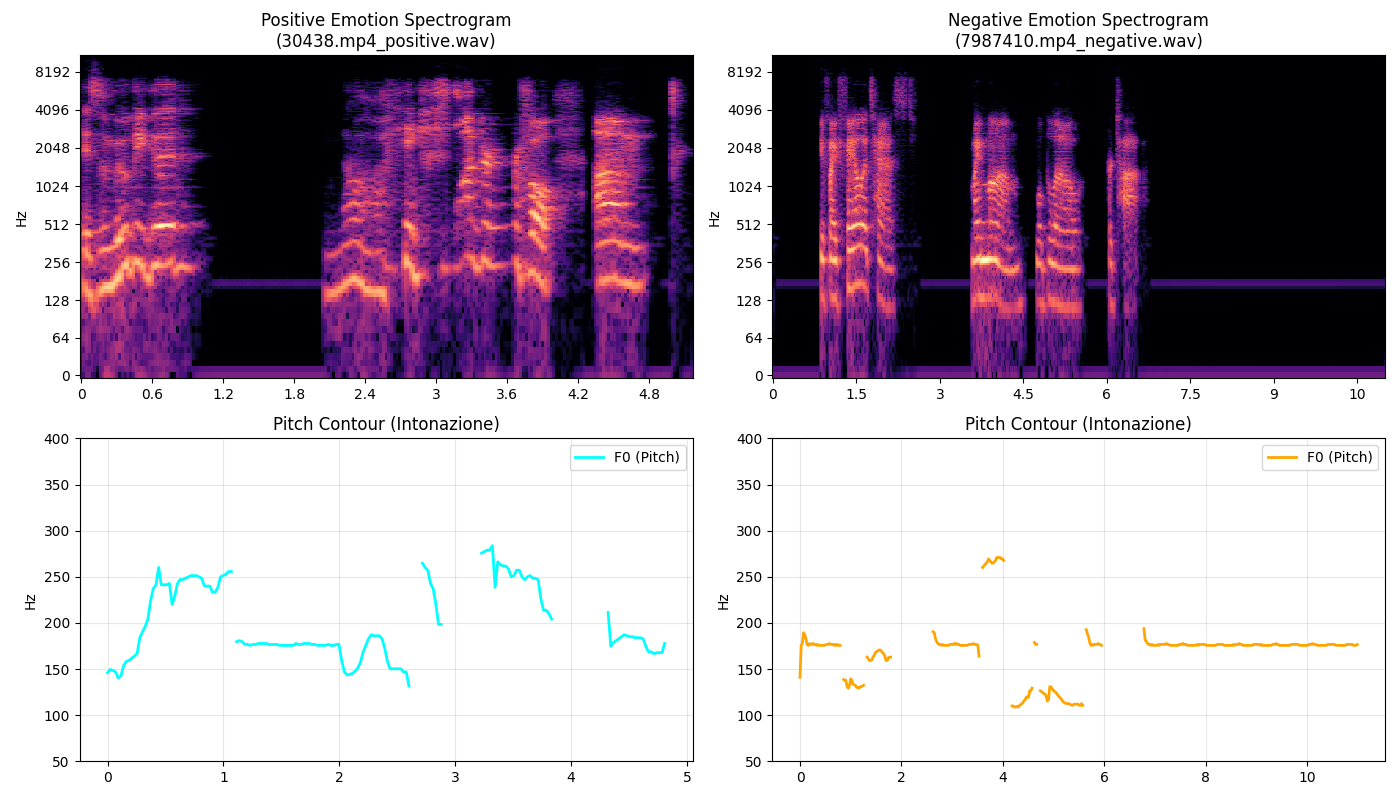
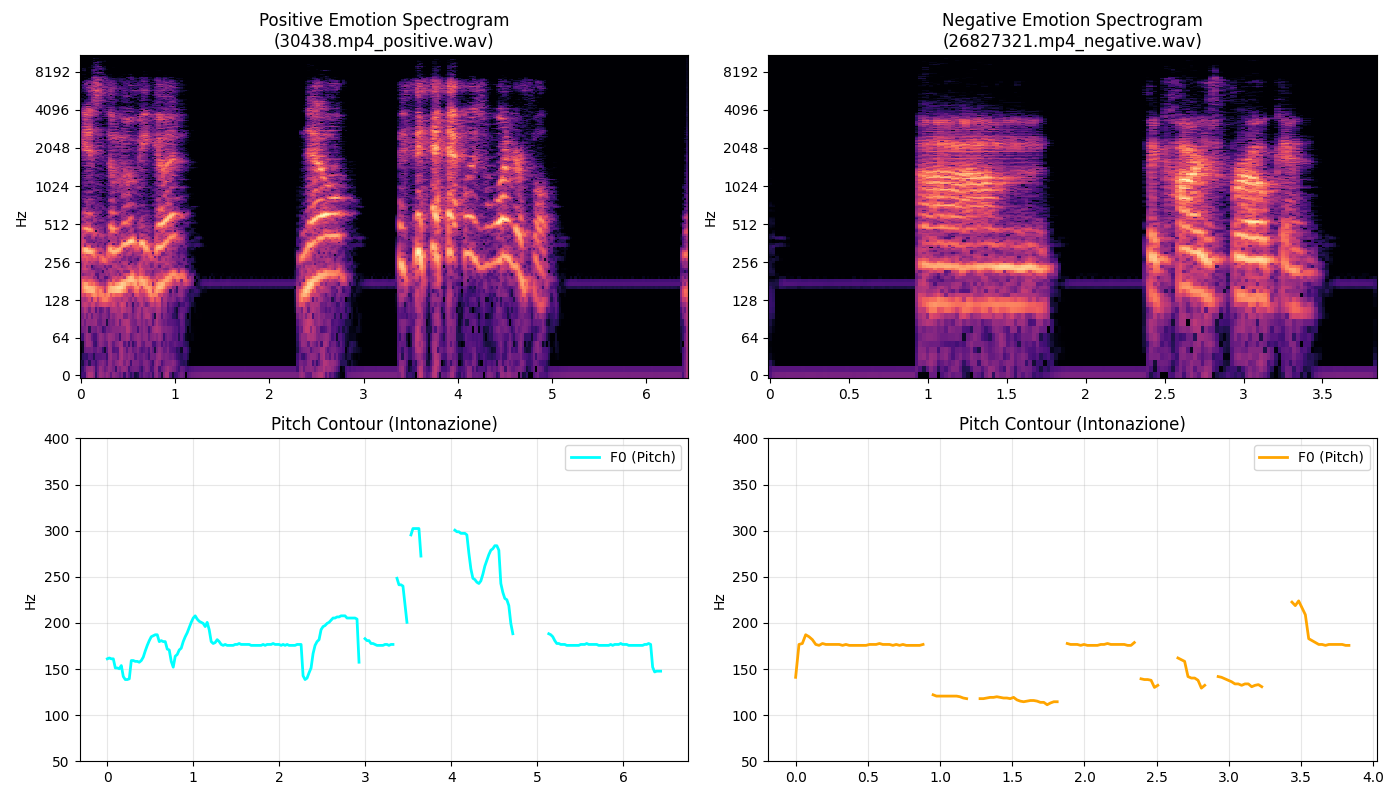
Refactor emotion mapping and tag optimization for improved clarity and performance
- Updated emotional tags in `emotion_mapper.py` to reflect confidence-based thresholds and improved fallback options.
- Enhanced `optimize_emotional_text` function in `emotion_tag_optimizer.py` to handle old tags and provide better uncertainty representation.
- Cleaned up path definitions in `tts_generator.py` for clarity and updated file references for predictions and audio output.
- Adjusted audio directory paths in `analyze_prosody.py` and `analyze_tts_results.py` for consistency and accuracy.

diff --git a/src/tts/bark/tts_generator.py b/src/tts/bark/tts_generator.py
@@ -68,7 +68,6 @@
     - Usa modelli standard (migliore qualità, più VRAM richiesta).
     - Offload su CPU attivo per gestire la memoria.
 """
-
 import os
 import torch
 import gc
@@ -83,7 +82,7 @@ import numpy as np
 import warnings
 from tqdm import tqdm
 
-# Patch PyTorch (se serve ancora, ma su A100 con env recenti forse no)
+# Patch PyTorch
 try:
     from . import pytorch_patch
 except ImportError:
@@ -125,15 +124,26 @@ if parent_dir not in sys.path:
     sys.path.insert(0, parent_dir)
 from text_templates import get_tts_text
 
-# --- PATHS (Ho lasciato i tuoi percorsi hardcoded commentati per sicurezza) ---
-BASE_DIR = os.path.abspath(
-    os.path.join(os.path.dirname(__file__), os.pardir, os.pardir, os.pardir)
+# --- PATHS ---
+
+# PUNTA AL NUOVO FILE GENERATO DA MERGE_CAPTIONS
+PREDICTIONS_FILE = os.path.join(
+    # BASE_DIR,
+    # "src",
+    # "models",
+    # "three_classes",
+    # "text_plus_video_metalearner_to_sentiment",
+    # "results",
+    "final_predictions_with_captions.csv",  # <--- FILE CORRETTO
 )
-PREDICTIONS_FILE = (
-    "final_metalearner_predictions_for_tts.csv"  # Modifica con path assoluto se serve
+
+OUTPUT_AUDIO_DIR = os.path.join(
+    # BASE_DIR,
+    # "src",
+    # "tts",
+    # "bark",
+    "output_audio",
 )
-OUTPUT_AUDIO_DIR = "output_audio"
-GOLDEN_TEST_FILE = "golden_test_set.csv"
 
 MODELS_PRELOADED = False
 
@@ -141,7 +151,6 @@ MODELS_PRELOADED = False
 def setup_optimizations():
     """Configura PyTorch per massime prestazioni su A100."""
     if torch.cuda.is_available():
-        # Usa TF32 per matrici (velocizza molto su Ampere A100)
         torch.backends.cuda.matmul.allow_tf32 = True
         torch.backends.cudnn.allow_tf32 = True
         print("🚀 A100 Optimization: TF32 Enabled")
@@ -153,7 +162,6 @@ def preload_bark_models():
         return
     if not MODELS_PRELOADED:
         print("📥 Caricamento modelli Bark HQ in VRAM...")
-        # Su A100 carichiamo tutto su GPU subito e non lo muoviamo più
         preload_models(
             text_use_gpu=True,
             text_use_small=False,
@@ -170,28 +178,19 @@ def preload_bark_models():
 
 def load_predictions_data():
     if not os.path.exists(PREDICTIONS_FILE):
-        print(f"⚠ File locale non trovato, provo path assoluto...")
-        # Fallback al path complesso se il locale non c'è
-        abs_path = os.path.join(
-            # BASE_DIR,
-            # "src",
-            # "models",
-            # "three_classes",
-            # "text_plus_video_metalearner_to_sentiment",
-            # "results",
-            "final_metalearner_predictions_for_tts.csv",
+        raise FileNotFoundError(
+            f"❌ File non trovato: {PREDICTIONS_FILE}\nEsegui prima src/utils/merge_captions.py!"
         )
-        if os.path.exists(abs_path):
-            return pd.read_csv(abs_path)
-        else:
-            raise FileNotFoundError(f"❌ File non trovato: {PREDICTIONS_FILE}")
 
     df = pd.read_csv(PREDICTIONS_FILE)
+    print(f"📄 Dataset caricato: {len(df)} righe")
 
-    # Logica recupero caption (semplificata per velocità)
-    if "caption" not in df.columns or df["caption"].isnull().all():
-        print("⚠ Recupero caption...")
-        # ... logica recupero ... (omessa per brevità, usa quella del tuo script precedente se serve)
+    # Check rapido
+    missing_caps = df["caption"].isna().sum()
+    if missing_caps > 0:
+        print(
+            f"⚠ Attenzione: {missing_caps} caption sono ancora vuote (useranno template fallback)."
+        )
 
     return df
 
@@ -208,11 +207,13 @@ def generate_emotional_audio(emotion, confidence, video_name, output_dir, captio
     # Testo
     if isinstance(caption, str) and len(caption) > 3:
         text = caption
+        # A100 gestisce testi lunghi, ma Bark può allucinare se > 250 token
         if len(text) > 250:
-            text = text[:250] + "..."  # A100 regge di più ma occhio ai token
+            text = text[:250] + "..."
     else:
         text = get_tts_text(emotion, confidence, video_name)
 
+    # Ottimizzazione
     text = optimize_emotional_text(
         text, emotion, use_tags=True, custom_tag=emotional_tag, confidence=confidence
     )
@@ -220,8 +221,6 @@ def generate_emotional_audio(emotion, confidence, video_name, output_dir, captio
     print(f"🎙 {video_name} | {emotion} ({confidence:.2f})")
 
     try:
-        # Generazione (Senza silent=True vediamo la barra di Bark se vogliamo)
-        # Su A100 questo step dovrebbe volare
         audio_array = generate_audio(
             text,
             history_prompt=history_prompt,
@@ -236,12 +235,13 @@ def generate_emotional_audio(emotion, confidence, video_name, output_dir, captio
 
         write_wav(output_path, SAMPLE_RATE, audio_array)
 
-        # NON puliamo la cache ogni volta su A100, rallenta solo!
-        # Facciamolo solo ogni tanto se proprio serve
+        # Su A100 non puliamo la cache ad ogni file per velocità
         return output_path
 
     except Exception as e:
         print(f"❌ Errore: {e}")
+        gc.collect()
+        torch.cuda.empty_cache()
         return None
 
 
@@ -262,8 +262,6 @@ def generate_from_csv(limit: int = None):
     preload_bark_models()
 
     successful = 0
-
-    # TQDM con statistiche
     pbar = tqdm(df.iterrows(), total=len(df), desc="A100 Generating")
 
     for i, (_, row) in enumerate(pbar):
@@ -272,22 +270,25 @@ def generate_from_csv(limit: int = None):
         if emotion not in ["Positive", "Negative", "Neutral"]:
             emotion = "Neutral"
 
+        # Gestione caption che potrebbero essere NaN
+        caption = row["caption"] if pd.notna(row["caption"]) else None
+
         path = generate_emotional_audio(
             emotion,
             float(row["confidence"]),
             video_name,
             OUTPUT_AUDIO_DIR,
-            row.get("caption"),
+            caption,
         )
 
         if path:
             successful += 1
 
-        # Pulizia leggera ogni 50 file invece che ogni 1
+        # Pulizia leggera ogni 50 file
         if i % 50 == 0:
             gc.collect()
 
-    print(f"✅ Fatto. {successful}/{len(df)} generati.")
+    print(f"✅ Fatto. {successful}/{len(df)} generati in: {OUTPUT_AUDIO_DIR}")
 
 
 if __name__ == "__main__":

diff --git a/src/tts/bark/emotion_mapper.py b/src/tts/bark/emotion_mapper.py
@@ -33,36 +33,28 @@ EMOTION_BARK_MAPPING = {
     },
 }
 
-# Configurazione Tag Emotivi (SOGLIE AGGIORNATE)
+# Configurazione Tag Emotivi basata su Confidenza (CORRETTA)
 EMOTIONAL_TAGS = {
     "Positive": {
         "primary": "[laughs]",
         "alternatives": ["[chuckles]", "[giggles]", "[laughter]", "♪"],
-        # SOGLIA ALZATA A 0.92: Il grafico mostra molti dati > 0.90.
-        # Riserviamo [laughter] (risata forte) solo ai casi estremi.
-        "high_confidence": "[laughter]",
-        # Fascia 0.75 - 0.92: Confidenza solida ma non estrema.
-        "medium_confidence": "[laughs]",
-        # Sotto 0.75: Il modello ha dubbi. Usiamo [chuckles] (sorriso) o niente.
-        "low_confidence": "[chuckles]",
+        "high_confidence": "[laughter]",  # >92%
+        "medium_confidence": "[laughs]",  # 75-92%
+        "low_confidence": "[clears throat]",  # <75% (Sicuro)
     },
     "Negative": {
         "primary": "[sighs]",
-        "alternatives": ["[sad]", "[gasps]", "... -"],
-        # SOGLIA RICALIBRATA SUI TUOI DATI (Max osservato ~0.71)
-        # Abbassiamo drasticamente per "forzare" l'espressività sui migliori negativi che hai
-        "high_confidence": "[sighs]",  # > 0.65 (Invece di 0.92)
-        # Fascia media
-        "medium_confidence": "[gasps]",  # 0.55 - 0.65
-        # Sotto 0.55 è davvero incerto
-        "low_confidence": "...",
+        "alternatives": ["[sad]", "[gasps]", "...", "—"],
+        "high_confidence": "[sighs]",  # >65% (Ricalibrato sui tuoi dati)
+        "medium_confidence": "[gasps]",  # 55-65%
+        "low_confidence": "...",  # <55% (Pausa lunga è meglio di [hesitation])
     },
     "Neutral": {
         "primary": "",
-        "alternatives": ["[clears throat]", "[breath]"],
+        "alternatives": ["[clears throat]", "uhm...", "—"],
         "high_confidence": "",
-        "medium_confidence": "",
-        "low_confidence": "[hesitation]",
+        "medium_confidence": "[clears throat]",
+        "low_confidence": "uhm...",  # <75% (Uhm... è il vero suono di esitazione)
     },
 }
 

diff --git a/src/tts/bark/emotion_tag_optimizer.py b/src/tts/bark/emotion_tag_optimizer.py
@@ -33,12 +33,18 @@ def optimize_emotional_text(
 
     conf = confidence if confidence <= 1.0 else confidence / 100.0
 
+    # Tag base (fallback)
     default_tags = {
         "Positive": "[laughs]",
         "Negative": "[sighs]",
         "Neutral": "[clears throat]",
     }
     tag = custom_tag or default_tags.get(emotion, "")
+
+    # Se il tag passato era il vecchio [hesitation], lo convertiamo al volo
+    if tag == "[hesitation]":
+        tag = "uhm..."
+
     if not tag:
         return text
 
@@ -46,22 +52,24 @@ def optimize_emotional_text(
     text_len = len(text)
 
     # --- STRATEGIA BASSA CONFIDENZA (< 0.75) ---
-    # Il grafico mostrava un cluster tra 0.60 e 0.70.
-    # Trattiamo questa fascia come "incerta" -> Esitazione invece di emozione.
+    # Usiamo "uhm..." o "..." per simulare incertezza acustica reale
     if conf < 0.75:
+        hesitation_sound = "uhm..."  # Molto efficace in Bark
         if breaks:
-            return insert_tag(text, "... [hesitation]", breaks[0])
+            # Inserisci un'esitazione alla prima pausa
+            return insert_tag(text, f"... {hesitation_sound}", breaks[0])
         else:
-            return f"[hesitation] {text}"
+            # Inizio frase
+            return f"{hesitation_sound} {text}"
 
     # --- STRATEGIA ALTA CONFIDENZA ---
+    # ... (Il resto rimane uguale) ...
 
     if text_len < 40:
         return f"{tag} {text}"
 
     if emotion == "Positive":
         result = f"{tag} {text}"
-        # Solo se > 0.95 (certezza quasi assoluta) raddoppiamo la risata
         if conf > 0.95 and breaks:
             mid_break = breaks[len(breaks) // 2]
             result = insert_tag(result, "[laughter]", mid_break + len(tag) + 1)

diff --git a/src/tts/bark/utils/analyze_prosody.py b/src/tts/bark/utils/analyze_prosody.py
@@ -13,11 +13,8 @@ import librosa.display
 import random
 
 # --- CONFIGURAZIONE ---
-BASE_DIR = os.path.abspath(
-    os.path.join(os.path.dirname(__file__), os.pardir, os.pardir, os.pardir)
-)
-AUDIO_DIR = os.path.join(BASE_DIR, "src", "tts", "bark", "output_audio")
-OUTPUT_IMG_DIR = os.path.join(BASE_DIR, "reports", "figures", "prosody_analysis")
+AUDIO_DIR = os.path.join("src", "tts", "bark", "best_audio")
+OUTPUT_IMG_DIR = os.path.join("reports", "figures", "prosody_analysis")
 
 
 def extract_pitch(audio_path):
@@ -122,8 +119,10 @@ def main():
     # L'ideale sarebbe confrontare lo stesso speaker, ma qui prendiamo a campione
     # p_file = pos_files[0]
     # n_file = neg_files[0]
+    # video_name_p = "30438"
+    # video_name_n = "254424"
     video_name_p = "30438"
-    video_name_n = "7987410"
+    video_name_n = "26827321"
     p_file = f"{AUDIO_DIR}/{video_name_p}.mp4_positive.wav"
     n_file = f"{AUDIO_DIR}/{video_name_n}.mp4_negative.wav"
 

diff --git a/src/tts/bark/utils/analyze_tts_results.py b/src/tts/bark/utils/analyze_tts_results.py
@@ -15,15 +15,9 @@ import seaborn as sns
 BASE_DIR = os.path.abspath(
     os.path.join(os.path.dirname(__file__), os.pardir, os.pardir, os.pardir)
 )
-AUDIO_DIR = os.path.join(BASE_DIR, "src", "tts", "bark", "output_audio")
+AUDIO_DIR = os.path.join("src", "tts", "bark", "output_audio")
 PREDICTIONS_FILE = os.path.join(
-    BASE_DIR,
-    "src",
-    "models",
-    "three_classes",
-    "text_plus_video_metalearner_to_sentiment",
-    "results",
-    "final_metalearner_predictions_for_tts.csv",
+    "src", "tts", "bark", "final_predictions_with_captions.csv"
 )
 
 
